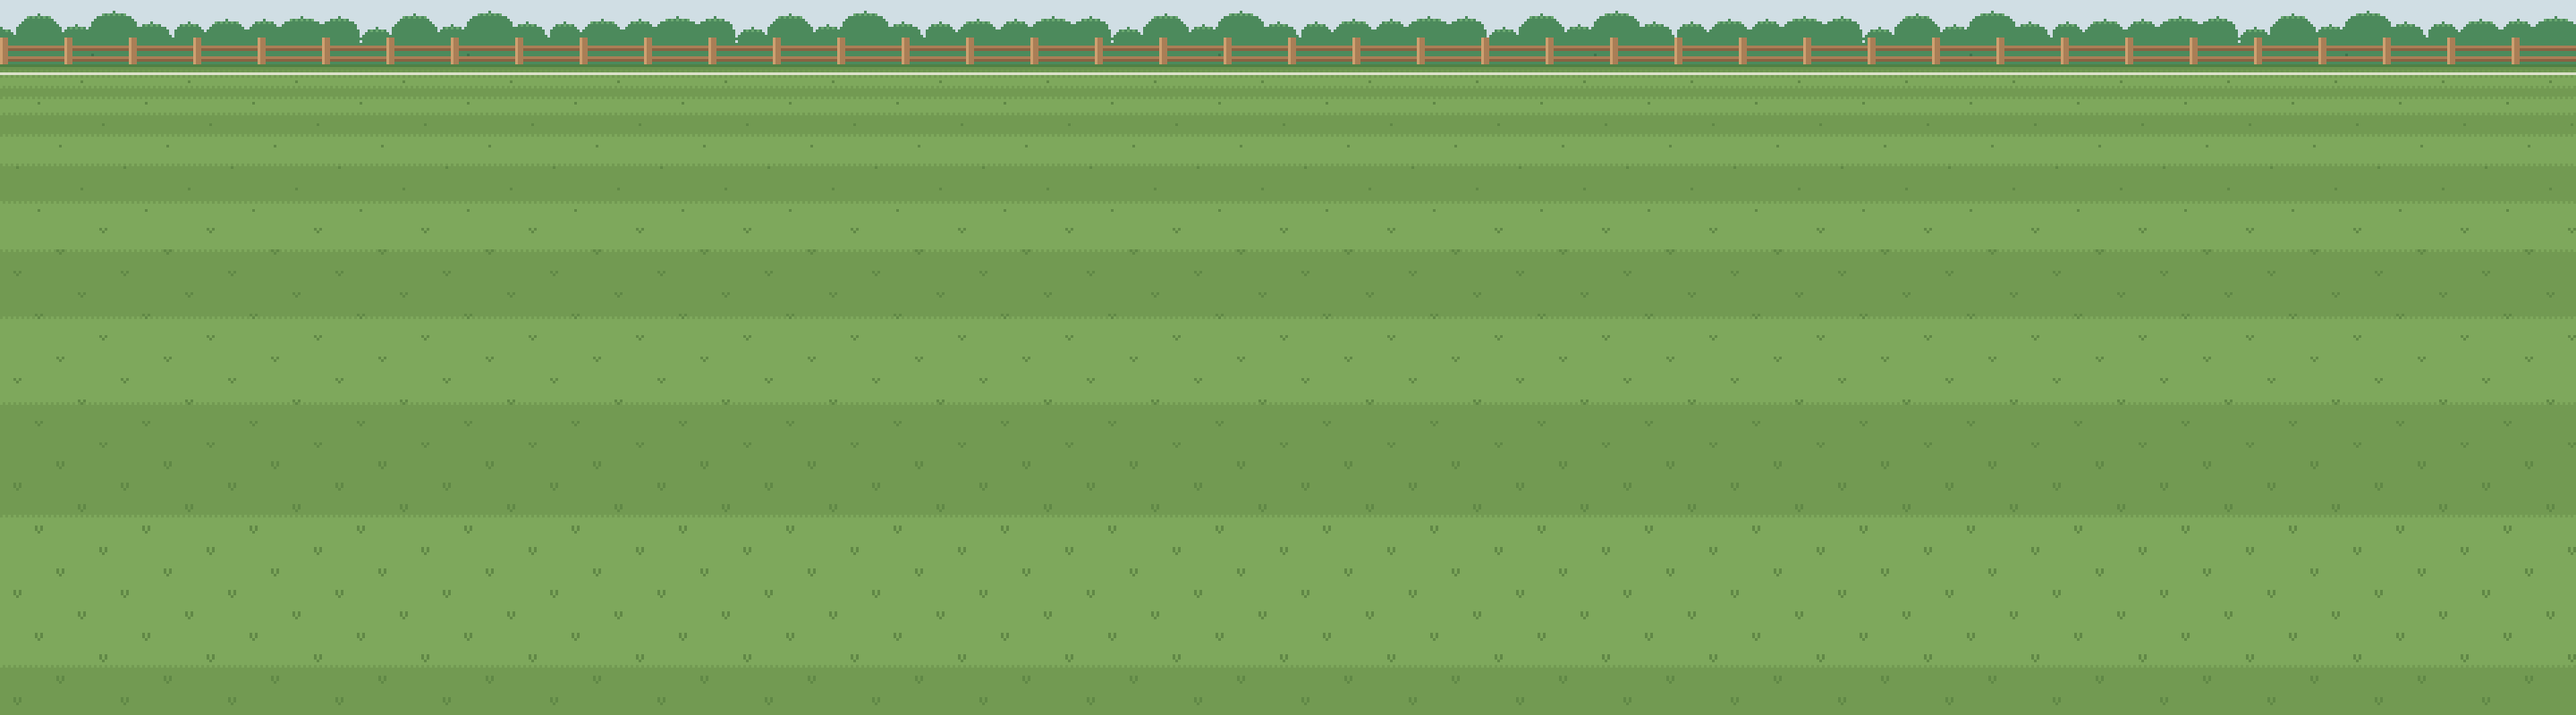
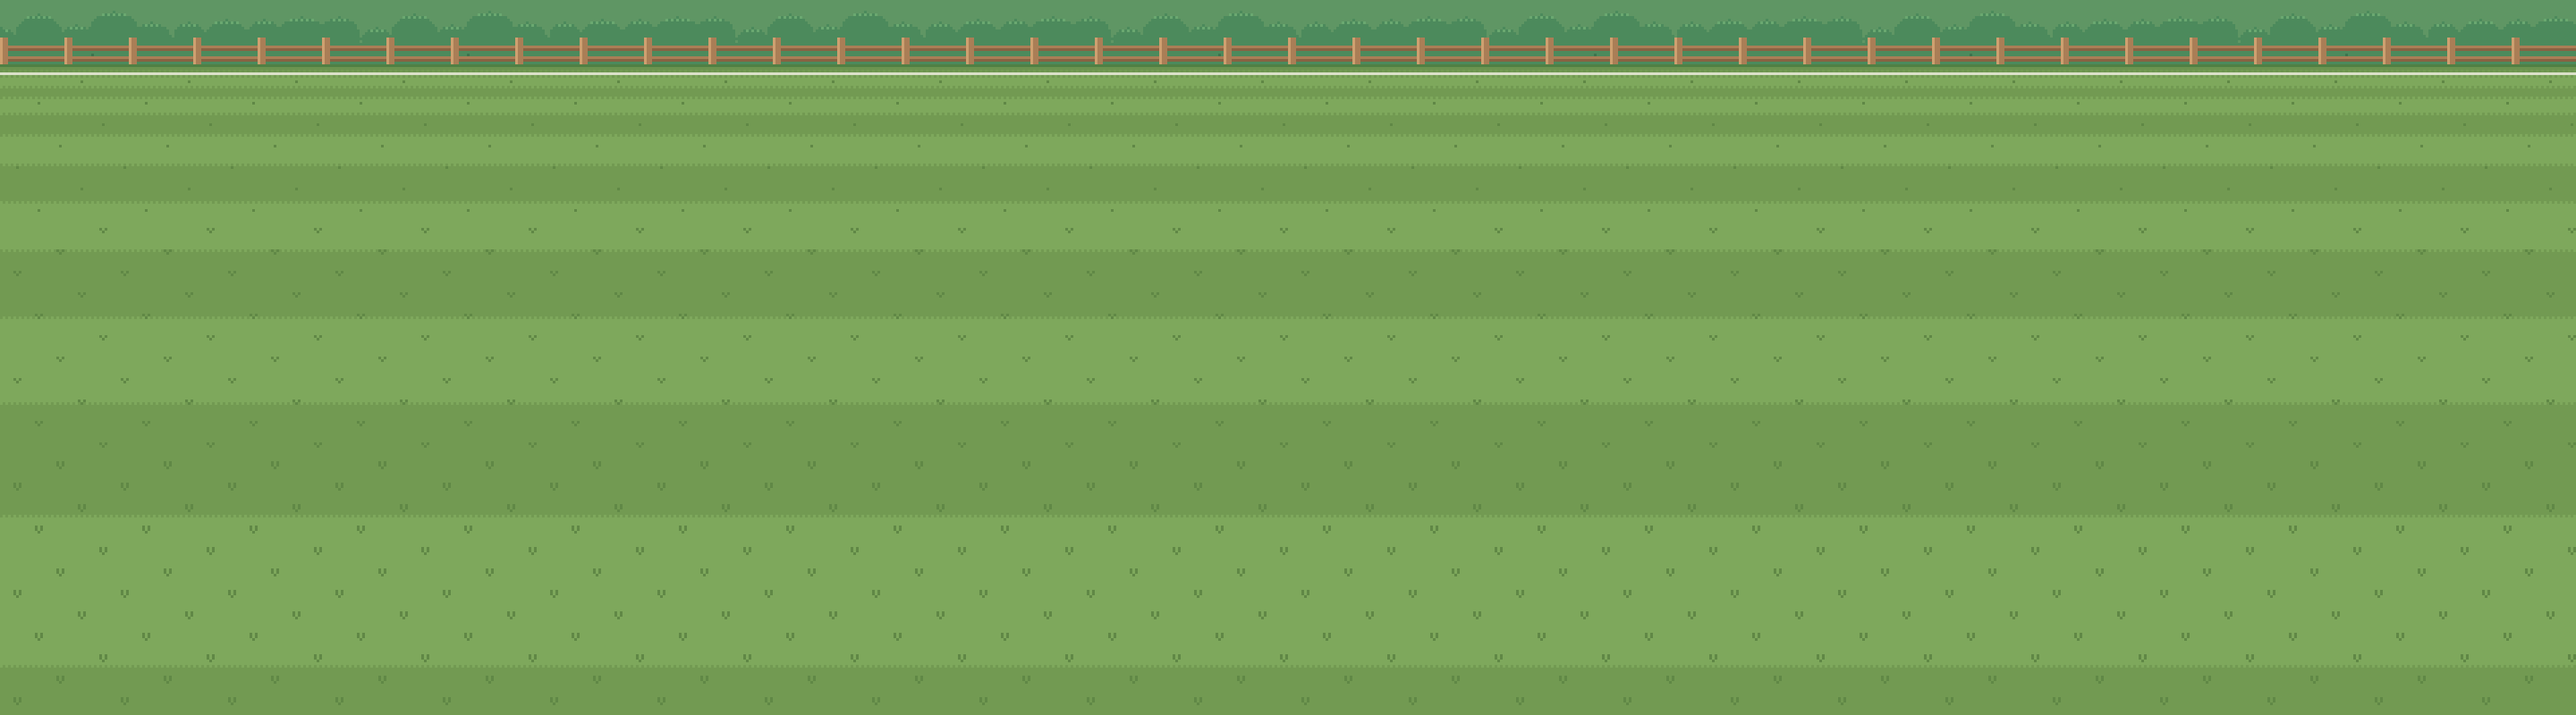
시합장 손질 — 관장 3:3 겹침 · 좁은 폭 ×1 그림 · 체육관 그림자
- 관장 3:3 에는 관장 · 이름표를 안 그림 (상대 앞 칸 포켓몬 · 판을 덮던 것 — 트레이너 3:3 과 같게) · 3:3 동안 맨 위 몰딩 숨김 (나무 윗부분이 몰딩 밑에 잘리던 것)
- 폭 400 아래 3:3 (포켓몬 ×1) 은 시합장 ×1 그림 · 그림자 줄 높이 = 그림 점 하나 (×1 포켓몬 옆 2px 점 울타리 · 풀이던 것)
- 관장 3:3 도 발밑 그림자 (방마다 바닥 색으로) · 해변 그림자는 살짝 차가운 회갈색 (숲과 같은 무게)
- 밝은 테마 풀밭 덤불 위 하늘을 연한 초록으로 (지도 줄 밑에 흰 점 틈이 보이던 것)

Changed region(s): [[0.0, 0.0, 1.0, 0.0625]]

diff --git a/src/game/features/stage/components/StageScreen.tsx b/src/game/features/stage/components/StageScreen.tsx
@@ -288,7 +288,9 @@ export function StageScreen({ state, layout, widthPx, media, onInput, onOpen, li
   const geo = mapRowFits && !mapRow ? geoAt(0) : geoWithRow;
   // 배경 = 지역 표 (스테이지 → 지역 → 숲 — orders #57, 지금은 모두 숲)
   // 3:3 판이면 시합장 (태현 님 #78 — sceneBackground, 그림이 들어오기 전엔 길 배경)
-  const art = (layer: 'background' | 'foreground') => (media && !gym ? `url("${media}/backgrounds/${sceneBackground(state)}/${layer}-${themeKind()}-${layout.size}.png")` : 'none');
+  //   시합장 + 폭 400 아래 (3:3 포켓몬 ×1 — teamGeometry) = ×1 그림 (-x1) — 포켓몬 1px 점 옆에 울타리 · 풀이 2px 점이던 것 (아트 디렉터 #78 큼 2)
+  const arenaX1 = sceneBackground(state).startsWith('arena-') && widthPx < 400;
+  const art = (layer: 'background' | 'foreground') => (media && !gym ? `url("${media}/backgrounds/${sceneBackground(state)}/${layer}-${themeKind()}-${arenaX1 ? 'x1' : layout.size}.png")` : 'none');
   // 체육관: 주인공은 무대 왼쪽 (대기실) · 관장은 무대 오른쪽 끝
   const heroStand = geo ? geo.trainerX : gym ? stage.left + Math.round(stage.width * 0.18) : hero;
   // 1-3 길 끝 체육관 (2026-10-20 태현 님 A안) — gym-enter 동안 주인공이 문 앞까지 걸어가 들어가며 사라지고 화면 닦기 (stage/model gymEnterView)
@@ -387,7 +389,7 @@ export function StageScreen({ state, layout, widthPx, media, onInput, onOpen, li
     // 시합장 (3:3 — pg-bg-arena-*) 은 위에 붙인 그림 · 낮은 패널은 위로 올림 (--pg-arena-y — 150 에서 맨 위 줄 발이 땅 시작에 걸리던 것, 아트 디렉터 #78: 150 −8 · 169 −4 · 187 위 0)
     <div
       class={`pg-screen pg-stage pg-size-${layout.size}${gym ? ' pg-gym' : ` pg-bg-${sceneBackground(state)}`}${covered ? ' pg-covered' : ''}`}
-      style={!gym && sceneBackground(state).startsWith('arena-') ? { '--pg-arena-y': `${Math.min(0, Math.round(((layout.heightPx - 187) * 8) / 37))}px` } : undefined}
+      style={!gym && sceneBackground(state).startsWith('arena-') ? { '--pg-arena-y': `${Math.min(0, Math.round(((layout.heightPx - 187) * (arenaX1 ? 4 : 8)) / 37))}px` } : undefined}
       ref={screen}
     >
       {battle && geo?.menuInBar ? (
@@ -457,7 +459,7 @@ export function StageScreen({ state, layout, widthPx, media, onInput, onOpen, li
       >
         {gym ? (
           // 체육관 3:3 = 바닥 윗선을 3:3 무대 지평선 (무대 높이 22% — teamGeometry) 까지 올림 (위 두 줄이 벽 앞에 떠 보이던 것 — #78)
-          <GymRoom media={media} room={gymRoomOf(regionHere(save.location))} k={buildingDraw('hospital', layout.scale, heroRoom).k} floorPx={team ? Math.max(Math.round(bodyPx * GYM_FLOOR_SHARE), bodyPx - Math.round(bodyPx * 0.22)) : Math.max(ground + GYM_FLOOR_ABOVE_GROUND_PX, Math.round(bodyPx * GYM_FLOOR_SHARE))} dark={themeKind() === 'dark'} />
+          <GymRoom media={media} room={gymRoomOf(regionHere(save.location))} k={buildingDraw('hospital', layout.scale, heroRoom).k} floorPx={team ? Math.max(Math.round(bodyPx * GYM_FLOOR_SHARE), bodyPx - Math.round(bodyPx * 0.22)) : Math.max(ground + GYM_FLOOR_ABOVE_GROUND_PX, Math.round(bodyPx * GYM_FLOOR_SHARE))} dark={themeKind() === 'dark'} team={team !== null} />
         ) : (
           <>
             <ScrollLayer cls="pg-bg" image={art('background')} start={offset * 0.35} pxPerSec={WALK_PX_PER_SEC * layout.scale * 0.35 * walkK} running={phase === 'walk' && live} />
@@ -481,7 +483,7 @@ export function StageScreen({ state, layout, widthPx, media, onInput, onOpen, li
           <Hero px={heroPx} walking={(phase === 'walk' || gymEnter?.walking === true) && live} fast={fast} gender={look.gender} look={look} media={media} roomPx={heroRoom} />
         </span>
         {/* 전투 중 상대 트레이너 · 관장 = 오른쪽 끝 (남은 볼) · 대기실의 관장 */}
-        {((battle && foeTrainer) || (gym && !battle) || (stageRt?.phase === 'rival' && foeTrainer)) && (
+        {((battle && foeTrainer) || (gym && !battle && !teamOn) || (stageRt?.phase === 'rival' && foeTrainer)) && (
           <span class="pg-obj pg-foe-trainer" style={{ left: `${leaderX}px`, bottom: `${ground}px` }} title={foeTrainer?.name ?? gymLeader.name}>
             {/* 머리 위 이름표 (decisions 2026-10-17) · 라이벌 장면은 VS 전까지 "!" (gdd 4.12 — 트레이너와 같게, 대사 상자가 뜨면 0.8초에 이름표로 바뀌어 1초가 안 되던 것 · UX 리뷰어 2026-10-21) */}
             {stageRt?.phase === 'rival' && !vsOn ? <span class="pg-trainer-mark">!</span> : !vsOn && <span class="pg-nametag">{foeTrainer?.name ?? gymLeader.name}</span>}
@@ -684,7 +686,7 @@ const GYM_FLOOR_SHARE = 0.42;
  * 아래부터 풀 바닥 · 뒷벽 창문 줄 (주황 몰딩 + 벽 밑 그늘) · 벽 앞 나무 (띄엄띄엄 — 창문이 보이게), 그 위는 원작 벽 색 · 맨 위 천장 몰딩.
  * 사람 · 건물과 같은 정수 배율 k (예전엔 코드로 그린 초록 줄무늬 + 갈색 바닥)
  */
-function GymRoom({ media, room, k, floorPx, dark }: { media: string; room: string; k: number; floorPx: number; dark: boolean }) {
+function GymRoom({ media, room, k, floorPx, dark, team = false }: { media: string; room: string; k: number; floorPx: number; dark: boolean; /** 3:3 — 맨 위 몰딩을 숨김 (나무 머리는 패널 위 끝에서 잘림) */ team?: boolean }) {
   // room = 지역 표의 체육관 방 그림 이름 앞 (gymRoomOf — 없으면 'gym' = 숲 방, orders #57)
   const url = (f: string) => (media ? `url("${media.replace(/\/+$/, '')}/buildings/${f.replace(/^gym/, room)}.png")` : 'none');
   return (
@@ -693,7 +695,7 @@ function GymRoom({ media, room, k, floorPx, dark }: { media: string; room: strin
       <div class="pg-gym-floor" style={{ height: `${floorPx}px`, backgroundImage: url('gym-floor'), backgroundSize: `${48 * k}px ${32 * k}px` }} />
       <div class="pg-gym-wall" style={{ bottom: `${floorPx}px`, height: `${31 * k}px`, backgroundImage: url('gym-wall'), backgroundSize: `${96 * k}px ${31 * k}px` }} />
       <div class="pg-gym-trees" style={{ bottom: `${floorPx - 6 * k}px`, height: `${24 * k}px`, backgroundImage: url('gym-trees'), backgroundSize: `${64 * k}px ${24 * k}px` }} />
-      <div class="pg-gym-top" style={{ height: `${9 * k}px`, backgroundImage: url('gym-top'), backgroundSize: `${96 * k}px ${9 * k}px` }} />
+      {!team && <div class="pg-gym-top" style={{ height: `${9 * k}px`, backgroundImage: url('gym-top'), backgroundSize: `${96 * k}px ${9 * k}px` }} />}
     </div>
   );
 }

diff --git a/src/game/webview/game.css b/src/game/webview/game.css
@@ -460,6 +460,7 @@ body.vscode-light .pg-stage .pg-maprow > .pg-balls + .pg-minimap .pg-stage-name 
 .pg-stage[class*="pg-bg-arena-"] .pg-bg {
   background-position-y: var(--pg-arena-y, 0px);
 }
+#pokemon-game .pg-stage.pg-gym .pg-team-shadow,
 #pokemon-game .pg-stage[class*="pg-bg-arena-"] .pg-team-shadow {
   display: block;
 }
@@ -470,10 +471,36 @@ body.vscode-light .pg-stage.pg-bg-arena-forest {
   --pg-arena-shadow: #4a7a50;
 }
 .pg-stage.pg-bg-arena-beach {
-  --pg-arena-shadow: #3e3628;
+  --pg-arena-shadow: #66605a;
 }
 body.vscode-light .pg-stage.pg-bg-arena-beach {
-  --pg-arena-shadow: #beaa80;
+  --pg-arena-shadow: #b0a48c;
+}
+/* 체육관 방 3:3 (#78 아트 디렉터 작음 4 — 관장전만 떠 보이던 것) — 숲 방 · 물 방 · 불 방 */
+.pg-stage.pg-gym {
+  --pg-arena-shadow: #103230;
+}
+body.vscode-light .pg-stage.pg-gym {
+  --pg-arena-shadow: #288c76;
+}
+.pg-stage.pg-gym:has(.pg-room-gym-water) {
+  --pg-arena-shadow: #202f3b;
+}
+body.vscode-light .pg-stage.pg-gym:has(.pg-room-gym-water) {
+  --pg-arena-shadow: #5b8298;
+}
+.pg-stage.pg-gym:has(.pg-room-gym-fire) {
+  --pg-arena-shadow: #291c1d;
+}
+body.vscode-light .pg-stage.pg-gym:has(.pg-room-gym-fire) {
+  --pg-arena-shadow: #5c3a32;
+}
+/* 화산 (지역이 생기면 — arena-volcano) */
+.pg-stage.pg-bg-arena-volcano {
+  --pg-arena-shadow: #2a2028;
+}
+body.vscode-light .pg-stage.pg-bg-arena-volcano {
+  --pg-arena-shadow: #5a4c54;
 }
 
 /* 길 위의 것 하나 — 가운데가 x 에, 바닥이 땅에.

diff --git a/src/game/features/battle/team/TeamLayer.tsx b/src/game/features/battle/team/TeamLayer.tsx
@@ -27,13 +27,13 @@ function Bar({ v, kind }: { v: number; kind: 'hp' | 'ult' | 'ult-full' }) {
   );
 }
 
-/** 발밑 그림자 자리 · 크기 — 그림 실제 폭 (sprite-boxes) × 0.6 을 2k 단위로 · 줄 높이 u = max(2, k) · 가운데 = 그림 발끝 (칸 아래 − 3k) */
+/** 발밑 그림자 자리 · 크기 — 그림 실제 폭 (sprite-boxes) × 0.6 을 2k 단위로 · 줄 높이 u = k (그림 점 하나) · 가운데 = 그림 발끝 (칸 아래 − 3k) */
 function shadowStyle(form: string, g: TeamGeo): Record<string, string> {
   const k = g.scale;
   const box = spriteBoxOf(form);
   const vis = box ? (box[2] - box[0]) * k : g.sp;
   const w = Math.max(k === 1 ? 12 : 20, Math.min(20 * k, Math.round((vis * 0.6) / (2 * k)) * 2 * k));
-  const u = Math.max(2, k);
+  const u = k;
   return { left: `${Math.round((g.sp - w) / 2)}px`, top: `${g.sp - 3 * k - Math.round((3 * u) / 2)}px`, width: `${w}px`, '--pg-sh-u': `${u}px`, '--pg-sh-in': `${2 * k}px` };
 }
 
